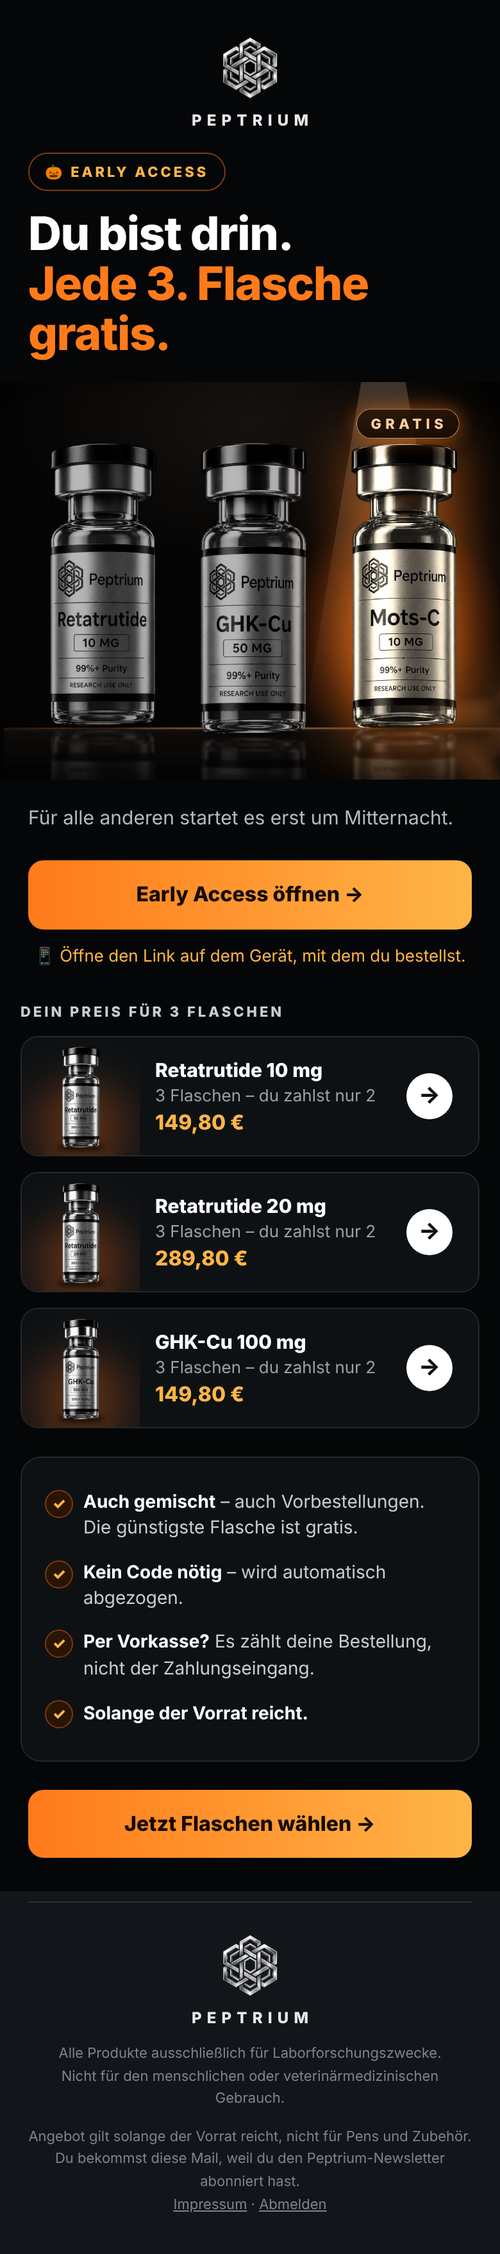
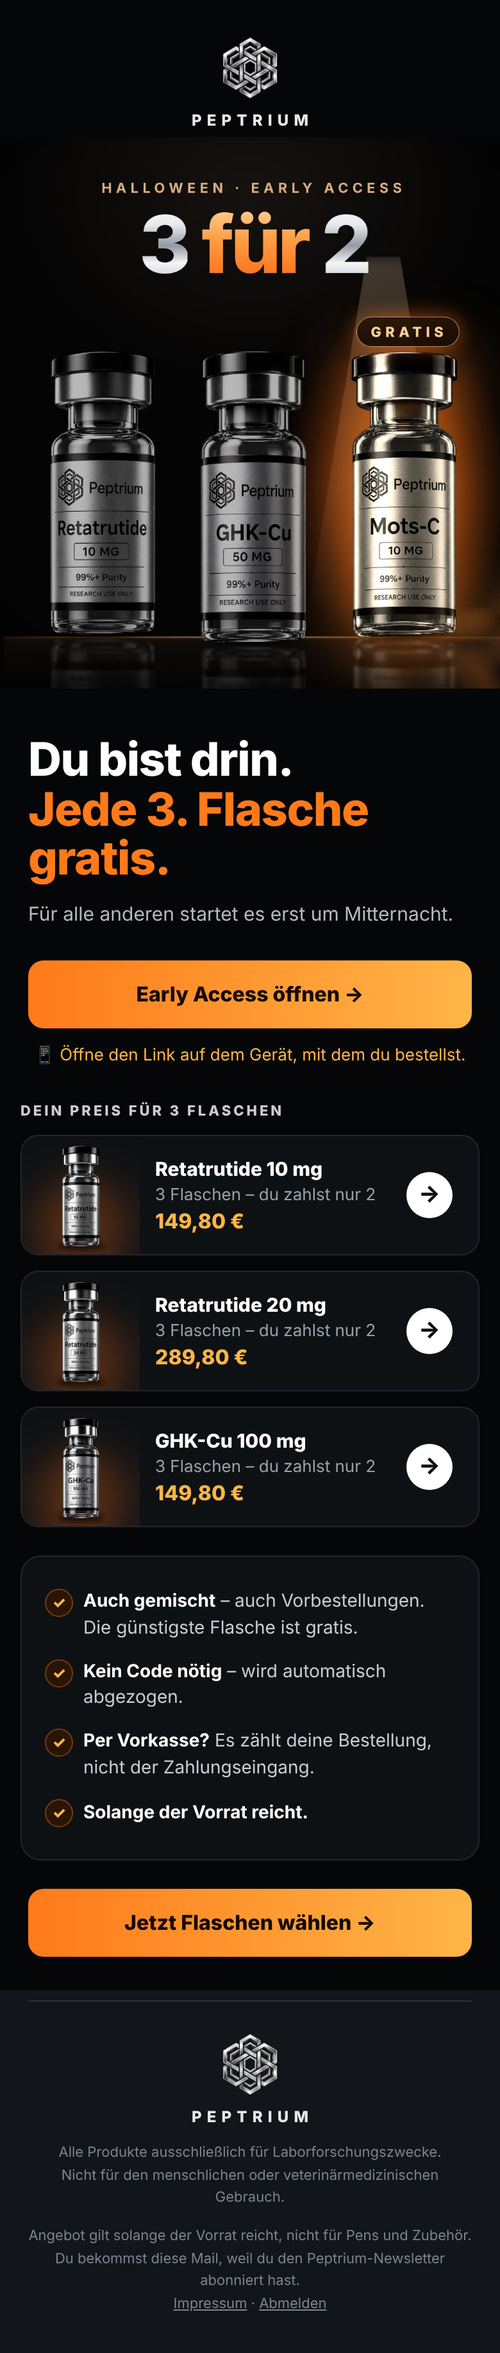
Halloween-Mails: 3 für 2 im Bild (Inter), Text darunter ohne doppeltes Label
Claude-Session: https://claude.ai/code/session_011YY7DBkbr5BcFGKyLoSbVN

diff --git a/drafts/halloween-2026-10-22/mails/vorschau-letzte.html b/drafts/halloween-2026-10-22/mails/vorschau-letzte.html
@@ -1,1 +1,1 @@
-<!doctype html><html lang="de"><head><meta charset="utf-8"><meta name="viewport" content="width=device-width,initial-scale=1"></head><body style="margin:0;background:#050607;"><table role="presentation" width="100%" cellpadding="0" cellspacing="0" style="background:#050607;"><tr><td align="center" style="padding:0;"><table role="presentation" width="100%" cellpadding="0" cellspacing="0" style="max-width:600px;background:#050607;"><tr><td style="padding:26px 20px 0;background:#050607;text-align:center;font-family:-apple-system,BlinkMacSystemFont,'Segoe UI',Inter,Helvetica,Arial,sans-serif;"><img src="https://peptrium.com/wp-content/uploads/2026/08/IMG_2644-cropped-300x300.png" width="54" height="54" alt="Peptrium" style="display:block;margin:0 auto;width:54px;height:54px;border:0;"><div style="font-size:12px;font-weight:800;letter-spacing:.34em;padding-left:.34em;color:#E6E8EB;margin-top:6px;">PEPTRIUM</div></td></tr><tr><td style="padding:18px 22px 18px;background:#050607;text-align:left;font-family:-apple-system,BlinkMacSystemFont,'Segoe UI',Inter,Helvetica,Arial,sans-serif;"><span style="display:inline-block;font-size:11px;font-weight:800;letter-spacing:.18em;color:#FFB547;border:1px solid #7A3A10;border-radius:99px;padding:7px 12px;">🎃 LETZTE CHANCE</span><div style="font-size:36px;line-height:1.08;font-weight:800;color:#FFFFFF;letter-spacing:-.02em;margin-top:14px;">Heute um 23:59<br><span style="color:#FF7A1A;">ist Schluss.</span></div></td></tr><tr><td style="padding:0;line-height:0;background:#050607;"><a href="https://peptrium.com/alle-produkte/?utm_source=newsletter&utm_medium=email&utm_campaign=halloween-letzte" style="display:block;line-height:0;"><img src="nl-hw-letzte.jpg" width="600" alt="Halloween bei Peptrium" style="display:block;width:100%;max-width:600px;height:auto;border:0;"></a></td></tr><tr><td style="padding:18px 22px 4px;background:#050607;text-align:left;font-family:-apple-system,BlinkMacSystemFont,'Segoe UI',Inter,Helvetica,Arial,sans-serif;"><div style="font-size:15px;line-height:1.55;color:#B4BAC2;">Danach kostet jede Flasche wieder den normalen Preis.</div></td></tr><tr><td style="padding:18px 22px 6px;background:#050607;text-align:left;font-family:-apple-system,BlinkMacSystemFont,'Segoe UI',Inter,Helvetica,Arial,sans-serif;"><a href="https://peptrium.com/alle-produkte/?utm_source=newsletter&utm_medium=email&utm_campaign=halloween-letzte" style="display:block;background:#FF7A1A;background-image:linear-gradient(90deg,#FF7A1A,#FFB547);color:#140A02;text-align:center;text-decoration:none;font-weight:800;font-size:16px;line-height:1.2;padding:17px 12px;border-radius:12px;font-family:-apple-system,BlinkMacSystemFont,'Segoe UI',Inter,Helvetica,Arial,sans-serif;">Jetzt Flaschen wählen &rarr;</a></td></tr><tr><td style="padding:20px 16px 4px;background:#050607;text-align:left;font-family:-apple-system,BlinkMacSystemFont,'Segoe UI',Inter,Helvetica,Arial,sans-serif;"><div style="font-size:11px;font-weight:800;letter-spacing:.18em;color:#C9CDD2;margin-bottom:6px;">DIE BELIEBTESTEN</div><table role="presentation" width="100%" cellpadding="0" cellspacing="0"><tr><td style="padding:6px 0;"><table role="presentation" width="100%" cellpadding="0" cellspacing="0" style="border-collapse:separate;background:#0E1114;border:1px solid #22272E;border-radius:14px;overflow:hidden;"><tr><td width="92" style="width:92px;padding:0;line-height:0;"><a href="https://peptrium.com/produkt/retatrutide/?attribute_volumen=10mg&utm_source=newsletter&utm_medium=email&utm_campaign=halloween-letzte"><img src="nl-hw-p-reta10.jpg" width="92" alt="" style="display:block;width:92px;height:92px;border:0;"></a></td><td style="padding:10px 12px;font-family:-apple-system,BlinkMacSystemFont,'Segoe UI',Inter,Helvetica,Arial,sans-serif;"><div style="font-size:15px;font-weight:800;color:#fff;">Retatrutide 10 mg</div><div style="font-size:13px;color:#9AA0A8;margin-top:3px;">3 Flaschen – du zahlst nur 2</div><div style="font-size:16px;font-weight:800;color:#FFB547;margin-top:2px;white-space:nowrap;">149,80 €</div></td><td width="44" style="width:44px;padding-right:12px;"><a href="https://peptrium.com/produkt/retatrutide/?attribute_volumen=10mg&utm_source=newsletter&utm_medium=email&utm_campaign=halloween-letzte" style="display:block;width:36px;height:36px;line-height:36px;border-radius:50%;background:#fff;color:#0D0F12;text-align:center;font-weight:800;text-decoration:none;font-size:18px;">&rarr;</a></td></tr></table></td></tr><tr><td style="padding:6px 0;"><table role="presentation" width="100%" cellpadding="0" cellspacing="0" style="border-collapse:separate;background:#0E1114;border:1px solid #22272E;border-radius:14px;overflow:hidden;"><tr><td width="92" style="width:92px;padding:0;line-height:0;"><a href="https://peptrium.com/produkt/retatrutide/?attribute_volumen=20mg&utm_source=newsletter&utm_medium=email&utm_campaign=halloween-letzte"><img src="nl-hw-p-reta20.jpg" width="92" alt="" style="display:block;width:92px;height:92px;border:0;"></a></td><td style="padding:10px 12px;font-family:-apple-system,BlinkMacSystemFont,'Segoe UI',Inter,Helvetica,Arial,sans-serif;"><div style="font-size:15px;font-weight:800;color:#fff;">Retatrutide 20 mg</div><div style="font-size:13px;color:#9AA0A8;margin-top:3px;">3 Flaschen – du zahlst nur 2</div><div style="font-size:16px;font-weight:800;color:#FFB547;margin-top:2px;white-space:nowrap;">289,80 €</div></td><td width="44" style="width:44px;padding-right:12px;"><a href="https://peptrium.com/produkt/retatrutide/?attribute_volumen=20mg&utm_source=newsletter&utm_medium=email&utm_campaign=halloween-letzte" style="display:block;width:36px;height:36px;line-height:36px;border-radius:50%;background:#fff;color:#0D0F12;text-align:center;font-weight:800;text-decoration:none;font-size:18px;">&rarr;</a></td></tr></table></td></tr><tr><td style="padding:6px 0;"><table role="presentation" width="100%" cellpadding="0" cellspacing="0" style="border-collapse:separate;background:#0E1114;border:1px solid #22272E;border-radius:14px;overflow:hidden;"><tr><td width="92" style="width:92px;padding:0;line-height:0;"><a href="https://peptrium.com/produkt/ghk-cu/?attribute_volumen=100mg&utm_source=newsletter&utm_medium=email&utm_campaign=halloween-letzte"><img src="nl-hw-p-ghk100.jpg" width="92" alt="" style="display:block;width:92px;height:92px;border:0;"></a></td><td style="padding:10px 12px;font-family:-apple-system,BlinkMacSystemFont,'Segoe UI',Inter,Helvetica,Arial,sans-serif;"><div style="font-size:15px;font-weight:800;color:#fff;">GHK-Cu 100 mg</div><div style="font-size:13px;color:#9AA0A8;margin-top:3px;">3 Flaschen – du zahlst nur 2</div><div style="font-size:16px;font-weight:800;color:#FFB547;margin-top:2px;white-space:nowrap;">149,80 €</div></td><td width="44" style="width:44px;padding-right:12px;"><a href="https://peptrium.com/produkt/ghk-cu/?attribute_volumen=100mg&utm_source=newsletter&utm_medium=email&utm_campaign=halloween-letzte" style="display:block;width:36px;height:36px;line-height:36px;border-radius:50%;background:#fff;color:#0D0F12;text-align:center;font-weight:800;text-decoration:none;font-size:18px;">&rarr;</a></td></tr></table></td></tr></table></td></tr><tr><td style="padding:12px 16px 26px;background:#050607;text-align:left;font-family:-apple-system,BlinkMacSystemFont,'Segoe UI',Inter,Helvetica,Arial,sans-serif;"><div style="background:#0E1114;border:1px solid #22272E;border-radius:16px;padding:18px 18px;"><table role="presentation" width="100%" cellpadding="0" cellspacing="0"><tr><td width="30" valign="top" style="width:30px;padding:7px 0;"><div style="width:20px;height:20px;line-height:20px;border-radius:50%;background:#2A1404;border:1px solid #7A3A10;color:#FFB547;text-align:center;font-size:12px;font-weight:800;">&#10003;</div></td><td style="padding:7px 0;font-family:-apple-system,BlinkMacSystemFont,'Segoe UI',Inter,Helvetica,Arial,sans-serif;font-size:14px;line-height:1.45;color:#C9CDD2;"><b style="color:#fff;">Auch gemischt</b> – auch Vorbestellungen. Die günstigste Flasche ist gratis.</td></tr><tr><td width="30" valign="top" style="width:30px;padding:7px 0;"><div style="width:20px;height:20px;line-height:20px;border-radius:50%;background:#2A1404;border:1px solid #7A3A10;color:#FFB547;text-align:center;font-size:12px;font-weight:800;">&#10003;</div></td><td style="padding:7px 0;font-family:-apple-system,BlinkMacSystemFont,'Segoe UI',Inter,Helvetica,Arial,sans-serif;font-size:14px;line-height:1.45;color:#C9CDD2;"><b style="color:#fff;">Kein Code nötig</b> – wird automatisch abgezogen.</td></tr><tr><td width="30" valign="top" style="width:30px;padding:7px 0;"><div style="width:20px;height:20px;line-height:20px;border-radius:50%;background:#2A1404;border:1px solid #7A3A10;color:#FFB547;text-align:center;font-size:12px;font-weight:800;">&#10003;</div></td><td style="padding:7px 0;font-family:-apple-system,BlinkMacSystemFont,'Segoe UI',Inter,Helvetica,Arial,sans-serif;font-size:14px;line-height:1.45;color:#C9CDD2;"><b style="color:#fff;">Per Vorkasse?</b> Es zählt deine Bestellung, nicht der Zahlungseingang.</td></tr></table></div></td></tr><tr><td style="padding:8px 22px 30px;background:#12151A;text-align:center;font-family:-apple-system,BlinkMacSystemFont,'Segoe UI',Inter,Helvetica,Arial,sans-serif;"><div style="height:1px;background:#2C3138;margin:0 0 22px;"></div><img src="https://peptrium.com/wp-content/uploads/2026/08/IMG_2644-cropped-300x300.png" width="54" height="54" alt="Peptrium" style="display:block;margin:0 auto;width:54px;height:54px;border:0;"><div style="font-size:12px;font-weight:800;letter-spacing:.34em;padding-left:.34em;color:#E6E8EB;margin-top:6px;">PEPTRIUM</div><div style="font-size:11px;color:#7D848D;margin-top:12px;line-height:1.6;">Alle Produkte ausschließlich für Laborforschungszwecke.<br>Nicht für den menschlichen oder veterinärmedizinischen Gebrauch.</div><div style="font-size:11px;color:#7D848D;margin-top:12px;line-height:1.6;">Angebot gilt solange der Vorrat reicht, nicht für Pens und Zubehör.<br>Du bekommst diese Mail, weil du den Peptrium-Newsletter abonniert hast. <br><a href="https://peptrium.com/impressum/" style="color:#7D848D;">Impressum</a> · <a href="#" style="color:#7D848D;">Abmelden</a></div></td></tr></table></td></tr></table></body></html>
+<!doctype html><html lang="de"><head><meta charset="utf-8"><meta name="viewport" content="width=device-width,initial-scale=1"></head><body style="margin:0;background:#050607;"><table role="presentation" width="100%" cellpadding="0" cellspacing="0" style="background:#050607;"><tr><td align="center" style="padding:0;"><table role="presentation" width="100%" cellpadding="0" cellspacing="0" style="max-width:600px;background:#050607;"><tr><td style="padding:26px 20px 6px;background:#050607;text-align:center;font-family:-apple-system,BlinkMacSystemFont,'Segoe UI',Inter,Helvetica,Arial,sans-serif;"><img src="https://peptrium.com/wp-content/uploads/2026/08/IMG_2644-cropped-300x300.png" width="54" height="54" alt="Peptrium" style="display:block;margin:0 auto;width:54px;height:54px;border:0;"><div style="font-size:12px;font-weight:800;letter-spacing:.34em;padding-left:.34em;color:#E6E8EB;margin-top:6px;">PEPTRIUM</div></td></tr><tr><td style="padding:0;line-height:0;background:#050607;"><a href="https://peptrium.com/alle-produkte/?utm_source=newsletter&utm_medium=email&utm_campaign=halloween-letzte" style="display:block;line-height:0;"><img src="nl-hw-letzte.jpg" width="600" alt="Halloween bei Peptrium" style="display:block;width:100%;max-width:600px;height:auto;border:0;"></a></td></tr><tr><td style="padding:22px 22px 6px;background:#050607;text-align:left;font-family:-apple-system,BlinkMacSystemFont,'Segoe UI',Inter,Helvetica,Arial,sans-serif;"><div style="font-size:36px;line-height:1.08;font-weight:800;color:#FFFFFF;letter-spacing:-.02em;margin-top:14px;">Heute um 23:59<br><span style="color:#FF7A1A;">ist Schluss.</span></div><div style="font-size:15px;line-height:1.55;color:#B4BAC2;margin-top:12px;">Danach kostet jede Flasche wieder den normalen Preis.</div></td></tr><tr><td style="padding:18px 22px 6px;background:#050607;text-align:left;font-family:-apple-system,BlinkMacSystemFont,'Segoe UI',Inter,Helvetica,Arial,sans-serif;"><a href="https://peptrium.com/alle-produkte/?utm_source=newsletter&utm_medium=email&utm_campaign=halloween-letzte" style="display:block;background:#FF7A1A;background-image:linear-gradient(90deg,#FF7A1A,#FFB547);color:#140A02;text-align:center;text-decoration:none;font-weight:800;font-size:16px;line-height:1.2;padding:17px 12px;border-radius:12px;font-family:-apple-system,BlinkMacSystemFont,'Segoe UI',Inter,Helvetica,Arial,sans-serif;">Jetzt Flaschen wählen &rarr;</a></td></tr><tr><td style="padding:20px 16px 4px;background:#050607;text-align:left;font-family:-apple-system,BlinkMacSystemFont,'Segoe UI',Inter,Helvetica,Arial,sans-serif;"><div style="font-size:11px;font-weight:800;letter-spacing:.18em;color:#C9CDD2;margin-bottom:6px;">DIE BELIEBTESTEN</div><table role="presentation" width="100%" cellpadding="0" cellspacing="0"><tr><td style="padding:6px 0;"><table role="presentation" width="100%" cellpadding="0" cellspacing="0" style="border-collapse:separate;background:#0E1114;border:1px solid #22272E;border-radius:14px;overflow:hidden;"><tr><td width="92" style="width:92px;padding:0;line-height:0;"><a href="https://peptrium.com/produkt/retatrutide/?attribute_volumen=10mg&utm_source=newsletter&utm_medium=email&utm_campaign=halloween-letzte"><img src="nl-hw-p-reta10.jpg" width="92" alt="" style="display:block;width:92px;height:92px;border:0;"></a></td><td style="padding:10px 12px;font-family:-apple-system,BlinkMacSystemFont,'Segoe UI',Inter,Helvetica,Arial,sans-serif;"><div style="font-size:15px;font-weight:800;color:#fff;">Retatrutide 10 mg</div><div style="font-size:13px;color:#9AA0A8;margin-top:3px;">3 Flaschen – du zahlst nur 2</div><div style="font-size:16px;font-weight:800;color:#FFB547;margin-top:2px;white-space:nowrap;">149,80 €</div></td><td width="44" style="width:44px;padding-right:12px;"><a href="https://peptrium.com/produkt/retatrutide/?attribute_volumen=10mg&utm_source=newsletter&utm_medium=email&utm_campaign=halloween-letzte" style="display:block;width:36px;height:36px;line-height:36px;border-radius:50%;background:#fff;color:#0D0F12;text-align:center;font-weight:800;text-decoration:none;font-size:18px;">&rarr;</a></td></tr></table></td></tr><tr><td style="padding:6px 0;"><table role="presentation" width="100%" cellpadding="0" cellspacing="0" style="border-collapse:separate;background:#0E1114;border:1px solid #22272E;border-radius:14px;overflow:hidden;"><tr><td width="92" style="width:92px;padding:0;line-height:0;"><a href="https://peptrium.com/produkt/retatrutide/?attribute_volumen=20mg&utm_source=newsletter&utm_medium=email&utm_campaign=halloween-letzte"><img src="nl-hw-p-reta20.jpg" width="92" alt="" style="display:block;width:92px;height:92px;border:0;"></a></td><td style="padding:10px 12px;font-family:-apple-system,BlinkMacSystemFont,'Segoe UI',Inter,Helvetica,Arial,sans-serif;"><div style="font-size:15px;font-weight:800;color:#fff;">Retatrutide 20 mg</div><div style="font-size:13px;color:#9AA0A8;margin-top:3px;">3 Flaschen – du zahlst nur 2</div><div style="font-size:16px;font-weight:800;color:#FFB547;margin-top:2px;white-space:nowrap;">289,80 €</div></td><td width="44" style="width:44px;padding-right:12px;"><a href="https://peptrium.com/produkt/retatrutide/?attribute_volumen=20mg&utm_source=newsletter&utm_medium=email&utm_campaign=halloween-letzte" style="display:block;width:36px;height:36px;line-height:36px;border-radius:50%;background:#fff;color:#0D0F12;text-align:center;font-weight:800;text-decoration:none;font-size:18px;">&rarr;</a></td></tr></table></td></tr><tr><td style="padding:6px 0;"><table role="presentation" width="100%" cellpadding="0" cellspacing="0" style="border-collapse:separate;background:#0E1114;border:1px solid #22272E;border-radius:14px;overflow:hidden;"><tr><td width="92" style="width:92px;padding:0;line-height:0;"><a href="https://peptrium.com/produkt/ghk-cu/?attribute_volumen=100mg&utm_source=newsletter&utm_medium=email&utm_campaign=halloween-letzte"><img src="nl-hw-p-ghk100.jpg" width="92" alt="" style="display:block;width:92px;height:92px;border:0;"></a></td><td style="padding:10px 12px;font-family:-apple-system,BlinkMacSystemFont,'Segoe UI',Inter,Helvetica,Arial,sans-serif;"><div style="font-size:15px;font-weight:800;color:#fff;">GHK-Cu 100 mg</div><div style="font-size:13px;color:#9AA0A8;margin-top:3px;">3 Flaschen – du zahlst nur 2</div><div style="font-size:16px;font-weight:800;color:#FFB547;margin-top:2px;white-space:nowrap;">149,80 €</div></td><td width="44" style="width:44px;padding-right:12px;"><a href="https://peptrium.com/produkt/ghk-cu/?attribute_volumen=100mg&utm_source=newsletter&utm_medium=email&utm_campaign=halloween-letzte" style="display:block;width:36px;height:36px;line-height:36px;border-radius:50%;background:#fff;color:#0D0F12;text-align:center;font-weight:800;text-decoration:none;font-size:18px;">&rarr;</a></td></tr></table></td></tr></table></td></tr><tr><td style="padding:12px 16px 26px;background:#050607;text-align:left;font-family:-apple-system,BlinkMacSystemFont,'Segoe UI',Inter,Helvetica,Arial,sans-serif;"><div style="background:#0E1114;border:1px solid #22272E;border-radius:16px;padding:18px 18px;"><table role="presentation" width="100%" cellpadding="0" cellspacing="0"><tr><td width="30" valign="top" style="width:30px;padding:7px 0;"><div style="width:20px;height:20px;line-height:20px;border-radius:50%;background:#2A1404;border:1px solid #7A3A10;color:#FFB547;text-align:center;font-size:12px;font-weight:800;">&#10003;</div></td><td style="padding:7px 0;font-family:-apple-system,BlinkMacSystemFont,'Segoe UI',Inter,Helvetica,Arial,sans-serif;font-size:14px;line-height:1.45;color:#C9CDD2;"><b style="color:#fff;">Auch gemischt</b> – auch Vorbestellungen. Die günstigste Flasche ist gratis.</td></tr><tr><td width="30" valign="top" style="width:30px;padding:7px 0;"><div style="width:20px;height:20px;line-height:20px;border-radius:50%;background:#2A1404;border:1px solid #7A3A10;color:#FFB547;text-align:center;font-size:12px;font-weight:800;">&#10003;</div></td><td style="padding:7px 0;font-family:-apple-system,BlinkMacSystemFont,'Segoe UI',Inter,Helvetica,Arial,sans-serif;font-size:14px;line-height:1.45;color:#C9CDD2;"><b style="color:#fff;">Kein Code nötig</b> – wird automatisch abgezogen.</td></tr><tr><td width="30" valign="top" style="width:30px;padding:7px 0;"><div style="width:20px;height:20px;line-height:20px;border-radius:50%;background:#2A1404;border:1px solid #7A3A10;color:#FFB547;text-align:center;font-size:12px;font-weight:800;">&#10003;</div></td><td style="padding:7px 0;font-family:-apple-system,BlinkMacSystemFont,'Segoe UI',Inter,Helvetica,Arial,sans-serif;font-size:14px;line-height:1.45;color:#C9CDD2;"><b style="color:#fff;">Per Vorkasse?</b> Es zählt deine Bestellung, nicht der Zahlungseingang.</td></tr></table></div></td></tr><tr><td style="padding:8px 22px 30px;background:#12151A;text-align:center;font-family:-apple-system,BlinkMacSystemFont,'Segoe UI',Inter,Helvetica,Arial,sans-serif;"><div style="height:1px;background:#2C3138;margin:0 0 22px;"></div><img src="https://peptrium.com/wp-content/uploads/2026/08/IMG_2644-cropped-300x300.png" width="54" height="54" alt="Peptrium" style="display:block;margin:0 auto;width:54px;height:54px;border:0;"><div style="font-size:12px;font-weight:800;letter-spacing:.34em;padding-left:.34em;color:#E6E8EB;margin-top:6px;">PEPTRIUM</div><div style="font-size:11px;color:#7D848D;margin-top:12px;line-height:1.6;">Alle Produkte ausschließlich für Laborforschungszwecke.<br>Nicht für den menschlichen oder veterinärmedizinischen Gebrauch.</div><div style="font-size:11px;color:#7D848D;margin-top:12px;line-height:1.6;">Angebot gilt solange der Vorrat reicht, nicht für Pens und Zubehör.<br>Du bekommst diese Mail, weil du den Peptrium-Newsletter abonniert hast. <br><a href="https://peptrium.com/impressum/" style="color:#7D848D;">Impressum</a> · <a href="#" style="color:#7D848D;">Abmelden</a></div></td></tr></table></td></tr></table></body></html>

diff --git a/drafts/halloween-2026-10-22/mails/vorschau-teaser.html b/drafts/halloween-2026-10-22/mails/vorschau-teaser.html
@@ -1,1 +1,1 @@
-<!doctype html><html lang="de"><head><meta charset="utf-8"><meta name="viewport" content="width=device-width,initial-scale=1"></head><body style="margin:0;background:#050607;"><table role="presentation" width="100%" cellpadding="0" cellspacing="0" style="background:#050607;"><tr><td align="center" style="padding:0;"><table role="presentation" width="100%" cellpadding="0" cellspacing="0" style="max-width:600px;background:#050607;"><tr><td style="padding:26px 20px 0;background:#050607;text-align:center;font-family:-apple-system,BlinkMacSystemFont,'Segoe UI',Inter,Helvetica,Arial,sans-serif;"><img src="https://peptrium.com/wp-content/uploads/2026/08/IMG_2644-cropped-300x300.png" width="54" height="54" alt="Peptrium" style="display:block;margin:0 auto;width:54px;height:54px;border:0;"><div style="font-size:12px;font-weight:800;letter-spacing:.34em;padding-left:.34em;color:#E6E8EB;margin-top:6px;">PEPTRIUM</div></td></tr><tr><td style="padding:18px 22px 18px;background:#050607;text-align:left;font-family:-apple-system,BlinkMacSystemFont,'Segoe UI',Inter,Helvetica,Arial,sans-serif;"><span style="display:inline-block;font-size:11px;font-weight:800;letter-spacing:.18em;color:#FFB547;border:1px solid #7A3A10;border-radius:99px;padding:7px 12px;">🎃 INSIDER-VORSCHAU</span><div style="font-size:36px;line-height:1.08;font-weight:800;color:#FFFFFF;letter-spacing:-.02em;margin-top:14px;">Morgen um 18 Uhr<br><span style="color:#FF7A1A;">bist du früher dran.</span></div></td></tr><tr><td style="padding:0;line-height:0;background:#050607;"><a href="https://peptrium.com/alle-produkte/?utm_source=newsletter&utm_medium=email&utm_campaign=halloween-teaser" style="display:block;line-height:0;"><img src="nl-hw-teaser.jpg" width="600" alt="Halloween bei Peptrium" style="display:block;width:100%;max-width:600px;height:auto;border:0;"></a></td></tr><tr><td style="padding:18px 22px 4px;background:#050607;text-align:left;font-family:-apple-system,BlinkMacSystemFont,'Segoe UI',Inter,Helvetica,Arial,sans-serif;"><div style="font-size:15px;line-height:1.55;color:#B4BAC2;">Unser Halloween-Special: <b style="color:#fff;">jede 3. Flasche gratis</b>. Für dich startet es sechs Stunden vor allen anderen – den Zugang schicken wir dir morgen per Mail.</div></td></tr><tr><td style="padding:18px 16px 4px;background:#050607;text-align:left;font-family:-apple-system,BlinkMacSystemFont,'Segoe UI',Inter,Helvetica,Arial,sans-serif;"><div style="background:#140A02;border:1px solid #5A2A0C;border-radius:16px;padding:18px 18px;"><div style="font-size:11px;font-weight:800;letter-spacing:.18em;color:#C9CDD2;margin-bottom:6px;">DER ABLAUF</div><table role="presentation" width="100%" cellpadding="0" cellspacing="0"><tr><td width="18" valign="top" style="width:18px;padding:10px 0;"><div style="width:10px;height:10px;border-radius:50%;margin-top:4px;background:#FF7A1A;"></div></td><td style="padding:8px 0;font-family:-apple-system,BlinkMacSystemFont,'Segoe UI',Inter,Helvetica,Arial,sans-serif;border-bottom:1px solid #22272E;"><div style="font-size:14px;font-weight:800;color:#FFB547;">Do 29.10. · 18 Uhr</div><div style="font-size:13px;color:#9AA0A8;margin-top:2px;">Early Access – nur für dich</div></td></tr><tr><td width="18" valign="top" style="width:18px;padding:10px 0;"><div style="width:10px;height:10px;border-radius:50%;margin-top:4px;background:#3A3F45;"></div></td><td style="padding:8px 0;font-family:-apple-system,BlinkMacSystemFont,'Segoe UI',Inter,Helvetica,Arial,sans-serif;border-bottom:1px solid #22272E;"><div style="font-size:14px;font-weight:800;color:#fff;">Fr 30.10. · 0 Uhr</div><div style="font-size:13px;color:#9AA0A8;margin-top:2px;">Start für alle</div></td></tr><tr><td width="18" valign="top" style="width:18px;padding:10px 0;"><div style="width:10px;height:10px;border-radius:50%;margin-top:4px;background:#3A3F45;"></div></td><td style="padding:8px 0;font-family:-apple-system,BlinkMacSystemFont,'Segoe UI',Inter,Helvetica,Arial,sans-serif;"><div style="font-size:14px;font-weight:800;color:#fff;">So 1.11. · 23:59</div><div style="font-size:13px;color:#9AA0A8;margin-top:2px;">Ende – solange der Vorrat reicht</div></td></tr></table></div></td></tr><tr><td style="padding:12px 16px 4px;background:#050607;text-align:left;font-family:-apple-system,BlinkMacSystemFont,'Segoe UI',Inter,Helvetica,Arial,sans-serif;"><div style="background:#0E1114;border:1px solid #22272E;border-radius:16px;padding:18px 18px;"><table role="presentation" width="100%" cellpadding="0" cellspacing="0"><tr><td width="30" valign="top" style="width:30px;padding:7px 0;"><div style="width:20px;height:20px;line-height:20px;border-radius:50%;background:#2A1404;border:1px solid #7A3A10;color:#FFB547;text-align:center;font-size:12px;font-weight:800;">&#10003;</div></td><td style="padding:7px 0;font-family:-apple-system,BlinkMacSystemFont,'Segoe UI',Inter,Helvetica,Arial,sans-serif;font-size:14px;line-height:1.45;color:#C9CDD2;"><b style="color:#fff;">Auch gemischt</b> – auch Vorbestellungen. Die günstigste Flasche ist gratis.</td></tr><tr><td width="30" valign="top" style="width:30px;padding:7px 0;"><div style="width:20px;height:20px;line-height:20px;border-radius:50%;background:#2A1404;border:1px solid #7A3A10;color:#FFB547;text-align:center;font-size:12px;font-weight:800;">&#10003;</div></td><td style="padding:7px 0;font-family:-apple-system,BlinkMacSystemFont,'Segoe UI',Inter,Helvetica,Arial,sans-serif;font-size:14px;line-height:1.45;color:#C9CDD2;"><b style="color:#fff;">Bei 6 Flaschen sind 2 gratis</b> – so oft du willst.</td></tr><tr><td width="30" valign="top" style="width:30px;padding:7px 0;"><div style="width:20px;height:20px;line-height:20px;border-radius:50%;background:#2A1404;border:1px solid #7A3A10;color:#FFB547;text-align:center;font-size:12px;font-weight:800;">&#10003;</div></td><td style="padding:7px 0;font-family:-apple-system,BlinkMacSystemFont,'Segoe UI',Inter,Helvetica,Arial,sans-serif;font-size:14px;line-height:1.45;color:#C9CDD2;"><b style="color:#fff;">Solange der Vorrat reicht.</b></td></tr></table></div></td></tr><tr><td style="padding:18px 22px 26px;background:#050607;text-align:left;font-family:-apple-system,BlinkMacSystemFont,'Segoe UI',Inter,Helvetica,Arial,sans-serif;"><a href="https://peptrium.com/alle-produkte/?utm_source=newsletter&utm_medium=email&utm_campaign=halloween-teaser" style="display:block;background:#FF7A1A;background-image:linear-gradient(90deg,#FF7A1A,#FFB547);color:#140A02;text-align:center;text-decoration:none;font-weight:800;font-size:16px;line-height:1.2;padding:17px 12px;border-radius:12px;font-family:-apple-system,BlinkMacSystemFont,'Segoe UI',Inter,Helvetica,Arial,sans-serif;">Schon mal stöbern &rarr;</a></td></tr><tr><td style="padding:8px 22px 30px;background:#12151A;text-align:center;font-family:-apple-system,BlinkMacSystemFont,'Segoe UI',Inter,Helvetica,Arial,sans-serif;"><div style="height:1px;background:#2C3138;margin:0 0 22px;"></div><img src="https://peptrium.com/wp-content/uploads/2026/08/IMG_2644-cropped-300x300.png" width="54" height="54" alt="Peptrium" style="display:block;margin:0 auto;width:54px;height:54px;border:0;"><div style="font-size:12px;font-weight:800;letter-spacing:.34em;padding-left:.34em;color:#E6E8EB;margin-top:6px;">PEPTRIUM</div><div style="font-size:11px;color:#7D848D;margin-top:12px;line-height:1.6;">Alle Produkte ausschließlich für Laborforschungszwecke.<br>Nicht für den menschlichen oder veterinärmedizinischen Gebrauch.</div><div style="font-size:11px;color:#7D848D;margin-top:12px;line-height:1.6;">Angebot gilt solange der Vorrat reicht, nicht für Pens und Zubehör.<br>Du bekommst diese Mail, weil du den Peptrium-Newsletter abonniert hast. <br><a href="https://peptrium.com/impressum/" style="color:#7D848D;">Impressum</a> · <a href="#" style="color:#7D848D;">Abmelden</a></div></td></tr></table></td></tr></table></body></html>
+<!doctype html><html lang="de"><head><meta charset="utf-8"><meta name="viewport" content="width=device-width,initial-scale=1"></head><body style="margin:0;background:#050607;"><table role="presentation" width="100%" cellpadding="0" cellspacing="0" style="background:#050607;"><tr><td align="center" style="padding:0;"><table role="presentation" width="100%" cellpadding="0" cellspacing="0" style="max-width:600px;background:#050607;"><tr><td style="padding:26px 20px 6px;background:#050607;text-align:center;font-family:-apple-system,BlinkMacSystemFont,'Segoe UI',Inter,Helvetica,Arial,sans-serif;"><img src="https://peptrium.com/wp-content/uploads/2026/08/IMG_2644-cropped-300x300.png" width="54" height="54" alt="Peptrium" style="display:block;margin:0 auto;width:54px;height:54px;border:0;"><div style="font-size:12px;font-weight:800;letter-spacing:.34em;padding-left:.34em;color:#E6E8EB;margin-top:6px;">PEPTRIUM</div></td></tr><tr><td style="padding:0;line-height:0;background:#050607;"><a href="https://peptrium.com/alle-produkte/?utm_source=newsletter&utm_medium=email&utm_campaign=halloween-teaser" style="display:block;line-height:0;"><img src="nl-hw-teaser.jpg" width="600" alt="Halloween bei Peptrium" style="display:block;width:100%;max-width:600px;height:auto;border:0;"></a></td></tr><tr><td style="padding:22px 22px 6px;background:#050607;text-align:left;font-family:-apple-system,BlinkMacSystemFont,'Segoe UI',Inter,Helvetica,Arial,sans-serif;"><div style="font-size:36px;line-height:1.08;font-weight:800;color:#FFFFFF;letter-spacing:-.02em;margin-top:14px;">Morgen um 18 Uhr<br><span style="color:#FF7A1A;">bist du früher dran.</span></div><div style="font-size:15px;line-height:1.55;color:#B4BAC2;margin-top:12px;">Unser Halloween-Special: <b style="color:#fff;">jede 3. Flasche gratis</b>. Für dich startet es sechs Stunden vor allen anderen – den Zugang schicken wir dir morgen per Mail.</div></td></tr><tr><td style="padding:18px 16px 4px;background:#050607;text-align:left;font-family:-apple-system,BlinkMacSystemFont,'Segoe UI',Inter,Helvetica,Arial,sans-serif;"><div style="background:#140A02;border:1px solid #5A2A0C;border-radius:16px;padding:18px 18px;"><div style="font-size:11px;font-weight:800;letter-spacing:.18em;color:#C9CDD2;margin-bottom:6px;">DER ABLAUF</div><table role="presentation" width="100%" cellpadding="0" cellspacing="0"><tr><td width="18" valign="top" style="width:18px;padding:10px 0;"><div style="width:10px;height:10px;border-radius:50%;margin-top:4px;background:#FF7A1A;"></div></td><td style="padding:8px 0;font-family:-apple-system,BlinkMacSystemFont,'Segoe UI',Inter,Helvetica,Arial,sans-serif;border-bottom:1px solid #22272E;"><div style="font-size:14px;font-weight:800;color:#FFB547;">Do 29.10. · 18 Uhr</div><div style="font-size:13px;color:#9AA0A8;margin-top:2px;">Early Access – nur für dich</div></td></tr><tr><td width="18" valign="top" style="width:18px;padding:10px 0;"><div style="width:10px;height:10px;border-radius:50%;margin-top:4px;background:#3A3F45;"></div></td><td style="padding:8px 0;font-family:-apple-system,BlinkMacSystemFont,'Segoe UI',Inter,Helvetica,Arial,sans-serif;border-bottom:1px solid #22272E;"><div style="font-size:14px;font-weight:800;color:#fff;">Fr 30.10. · 0 Uhr</div><div style="font-size:13px;color:#9AA0A8;margin-top:2px;">Start für alle</div></td></tr><tr><td width="18" valign="top" style="width:18px;padding:10px 0;"><div style="width:10px;height:10px;border-radius:50%;margin-top:4px;background:#3A3F45;"></div></td><td style="padding:8px 0;font-family:-apple-system,BlinkMacSystemFont,'Segoe UI',Inter,Helvetica,Arial,sans-serif;"><div style="font-size:14px;font-weight:800;color:#fff;">So 1.11. · 23:59</div><div style="font-size:13px;color:#9AA0A8;margin-top:2px;">Ende – solange der Vorrat reicht</div></td></tr></table></div></td></tr><tr><td style="padding:12px 16px 4px;background:#050607;text-align:left;font-family:-apple-system,BlinkMacSystemFont,'Segoe UI',Inter,Helvetica,Arial,sans-serif;"><div style="background:#0E1114;border:1px solid #22272E;border-radius:16px;padding:18px 18px;"><table role="presentation" width="100%" cellpadding="0" cellspacing="0"><tr><td width="30" valign="top" style="width:30px;padding:7px 0;"><div style="width:20px;height:20px;line-height:20px;border-radius:50%;background:#2A1404;border:1px solid #7A3A10;color:#FFB547;text-align:center;font-size:12px;font-weight:800;">&#10003;</div></td><td style="padding:7px 0;font-family:-apple-system,BlinkMacSystemFont,'Segoe UI',Inter,Helvetica,Arial,sans-serif;font-size:14px;line-height:1.45;color:#C9CDD2;"><b style="color:#fff;">Auch gemischt</b> – auch Vorbestellungen. Die günstigste Flasche ist gratis.</td></tr><tr><td width="30" valign="top" style="width:30px;padding:7px 0;"><div style="width:20px;height:20px;line-height:20px;border-radius:50%;background:#2A1404;border:1px solid #7A3A10;color:#FFB547;text-align:center;font-size:12px;font-weight:800;">&#10003;</div></td><td style="padding:7px 0;font-family:-apple-system,BlinkMacSystemFont,'Segoe UI',Inter,Helvetica,Arial,sans-serif;font-size:14px;line-height:1.45;color:#C9CDD2;"><b style="color:#fff;">Bei 6 Flaschen sind 2 gratis</b> – so oft du willst.</td></tr><tr><td width="30" valign="top" style="width:30px;padding:7px 0;"><div style="width:20px;height:20px;line-height:20px;border-radius:50%;background:#2A1404;border:1px solid #7A3A10;color:#FFB547;text-align:center;font-size:12px;font-weight:800;">&#10003;</div></td><td style="padding:7px 0;font-family:-apple-system,BlinkMacSystemFont,'Segoe UI',Inter,Helvetica,Arial,sans-serif;font-size:14px;line-height:1.45;color:#C9CDD2;"><b style="color:#fff;">Solange der Vorrat reicht.</b></td></tr></table></div></td></tr><tr><td style="padding:18px 22px 26px;background:#050607;text-align:left;font-family:-apple-system,BlinkMacSystemFont,'Segoe UI',Inter,Helvetica,Arial,sans-serif;"><a href="https://peptrium.com/alle-produkte/?utm_source=newsletter&utm_medium=email&utm_campaign=halloween-teaser" style="display:block;background:#FF7A1A;background-image:linear-gradient(90deg,#FF7A1A,#FFB547);color:#140A02;text-align:center;text-decoration:none;font-weight:800;font-size:16px;line-height:1.2;padding:17px 12px;border-radius:12px;font-family:-apple-system,BlinkMacSystemFont,'Segoe UI',Inter,Helvetica,Arial,sans-serif;">Schon mal stöbern &rarr;</a></td></tr><tr><td style="padding:8px 22px 30px;background:#12151A;text-align:center;font-family:-apple-system,BlinkMacSystemFont,'Segoe UI',Inter,Helvetica,Arial,sans-serif;"><div style="height:1px;background:#2C3138;margin:0 0 22px;"></div><img src="https://peptrium.com/wp-content/uploads/2026/08/IMG_2644-cropped-300x300.png" width="54" height="54" alt="Peptrium" style="display:block;margin:0 auto;width:54px;height:54px;border:0;"><div style="font-size:12px;font-weight:800;letter-spacing:.34em;padding-left:.34em;color:#E6E8EB;margin-top:6px;">PEPTRIUM</div><div style="font-size:11px;color:#7D848D;margin-top:12px;line-height:1.6;">Alle Produkte ausschließlich für Laborforschungszwecke.<br>Nicht für den menschlichen oder veterinärmedizinischen Gebrauch.</div><div style="font-size:11px;color:#7D848D;margin-top:12px;line-height:1.6;">Angebot gilt solange der Vorrat reicht, nicht für Pens und Zubehör.<br>Du bekommst diese Mail, weil du den Peptrium-Newsletter abonniert hast. <br><a href="https://peptrium.com/impressum/" style="color:#7D848D;">Impressum</a> · <a href="#" style="color:#7D848D;">Abmelden</a></div></td></tr></table></td></tr></table></body></html>

diff --git a/drafts/halloween-2026-10-22/mails/gen.py b/drafts/halloween-2026-10-22/mails/gen.py
@@ -54,8 +54,6 @@ def timeline(active):
                 f'<td style="padding:8px 0;font-family:{F};{"" if i == len(items)-1 else f"border-bottom:1px solid {BD};"}"><div style="font-size:14px;font-weight:800;color:{OR2 if on else "#fff"};">{d}</div><div style="font-size:13px;color:{MU};margin-top:2px;">{t}</div></td></tr>')
     return out + '</table>'
 
-def headrow(p, a, b): return row(pill(p) + f'<div style="font-size:36px;line-height:1.08;font-weight:800;color:#FFFFFF;letter-spacing:-.02em;margin-top:14px;">{a}<br><span style="color:{OR};">{b}</span></div>', '18px 22px 18px')
-def subrow(t): return row(f'<div style="font-size:15px;line-height:1.55;color:#B4BAC2;">{t}</div>', '18px 22px 4px')
 def ticks(items):
     r = ''.join(f'<tr><td width="30" valign="top" style="width:30px;padding:7px 0;"><div style="width:20px;height:20px;line-height:20px;border-radius:50%;background:#2A1404;border:1px solid #7A3A10;color:{OR2};text-align:center;font-size:12px;font-weight:800;">&#10003;</div></td>'
                 f'<td style="padding:7px 0;font-family:{F};font-size:14px;line-height:1.45;color:{LT};">{t}</td></tr>' for t in items)
@@ -69,8 +67,8 @@ TK_VORRAT = '<b style="color:#fff;">Solange der Vorrat reicht.</b>'
 
 def teaser():
     c = 'halloween-teaser'
-    return wrap(row(logo(), '26px 20px 0', align='center') + headrow('🎃 INSIDER-VORSCHAU', 'Morgen um 18 Uhr', 'bist du früher dran.') + heroimg('teaser', utm('/alle-produkte/', c))
-        + subrow('Unser Halloween-Special: <b style="color:#fff;">jede 3. Flasche gratis</b>. Für dich startet es sechs Stunden vor allen anderen – den Zugang schicken wir dir morgen per Mail.')
+    return wrap(row(logo(), '26px 20px 6px', align='center') + heroimg('teaser', utm('/alle-produkte/', c))
+        + row(h1('Morgen um 18 Uhr', 'bist du früher dran.', 'Unser Halloween-Special: <b style="color:#fff;">jede 3. Flasche gratis</b>. Für dich startet es sechs Stunden vor allen anderen – den Zugang schicken wir dir morgen per Mail.'), '22px 22px 6px')
         + row(box(label('DER ABLAUF') + timeline(0)), '18px 16px 4px')
         + row(ticks([TK_MIX, '<b style="color:#fff;">Bei 6 Flaschen sind 2 gratis</b> – so oft du willst.', TK_VORRAT]), '12px 16px 4px')
         + row(btn('Schon mal stöbern', utm('/alle-produkte/', c)), '18px 22px 26px'))
@@ -78,8 +76,8 @@ def teaser():
 def early():
     c = 'halloween-early'
     link = f'https://peptrium.com/?sp_hw=frueh&k={EA}&utm_source=newsletter&utm_medium=email&utm_campaign={c}'
-    return wrap(row(logo(), '26px 20px 0', align='center') + headrow('🎃 EARLY ACCESS', 'Du bist drin.', 'Jede 3. Flasche gratis.') + heroimg('early', link)
-        + subrow('Für alle anderen startet es erst um Mitternacht.')
+    return wrap(row(logo(), '26px 20px 6px', align='center') + heroimg('early', link)
+        + row(h1('Du bist drin.', 'Jede 3. Flasche gratis.', 'Für alle anderen startet es erst um Mitternacht.'), '22px 22px 6px')
         + row(btn('Early Access öffnen', link), '18px 22px 4px')
         + row(f'<div style="font-size:13px;color:{OR2};text-align:center;line-height:1.5;">📱 Öffne den Link auf dem Gerät, mit dem du bestellst.</div>', '8px 22px 6px', align='center')
         + row(label('DEIN PREIS FÜR 3 FLASCHEN') + prods(c), '20px 16px 4px')
@@ -88,8 +86,8 @@ def early():
 
 def letzte():
     c = 'halloween-letzte'
-    return wrap(row(logo(), '26px 20px 0', align='center') + headrow('🎃 LETZTE CHANCE', 'Heute um 23:59', 'ist Schluss.') + heroimg('letzte', utm('/alle-produkte/', c))
-        + subrow('Danach kostet jede Flasche wieder den normalen Preis.')
+    return wrap(row(logo(), '26px 20px 6px', align='center') + heroimg('letzte', utm('/alle-produkte/', c))
+        + row(h1('Heute um 23:59', 'ist Schluss.', 'Danach kostet jede Flasche wieder den normalen Preis.'), '22px 22px 6px')
         + row(btn('Jetzt Flaschen wählen', utm('/alle-produkte/', c)), '18px 22px 6px')
         + row(label('DIE BELIEBTESTEN') + prods(c), '20px 16px 4px')
         + row(ticks([TK_MIX, TK_CODE, TK_VK]), '12px 16px 26px'))
